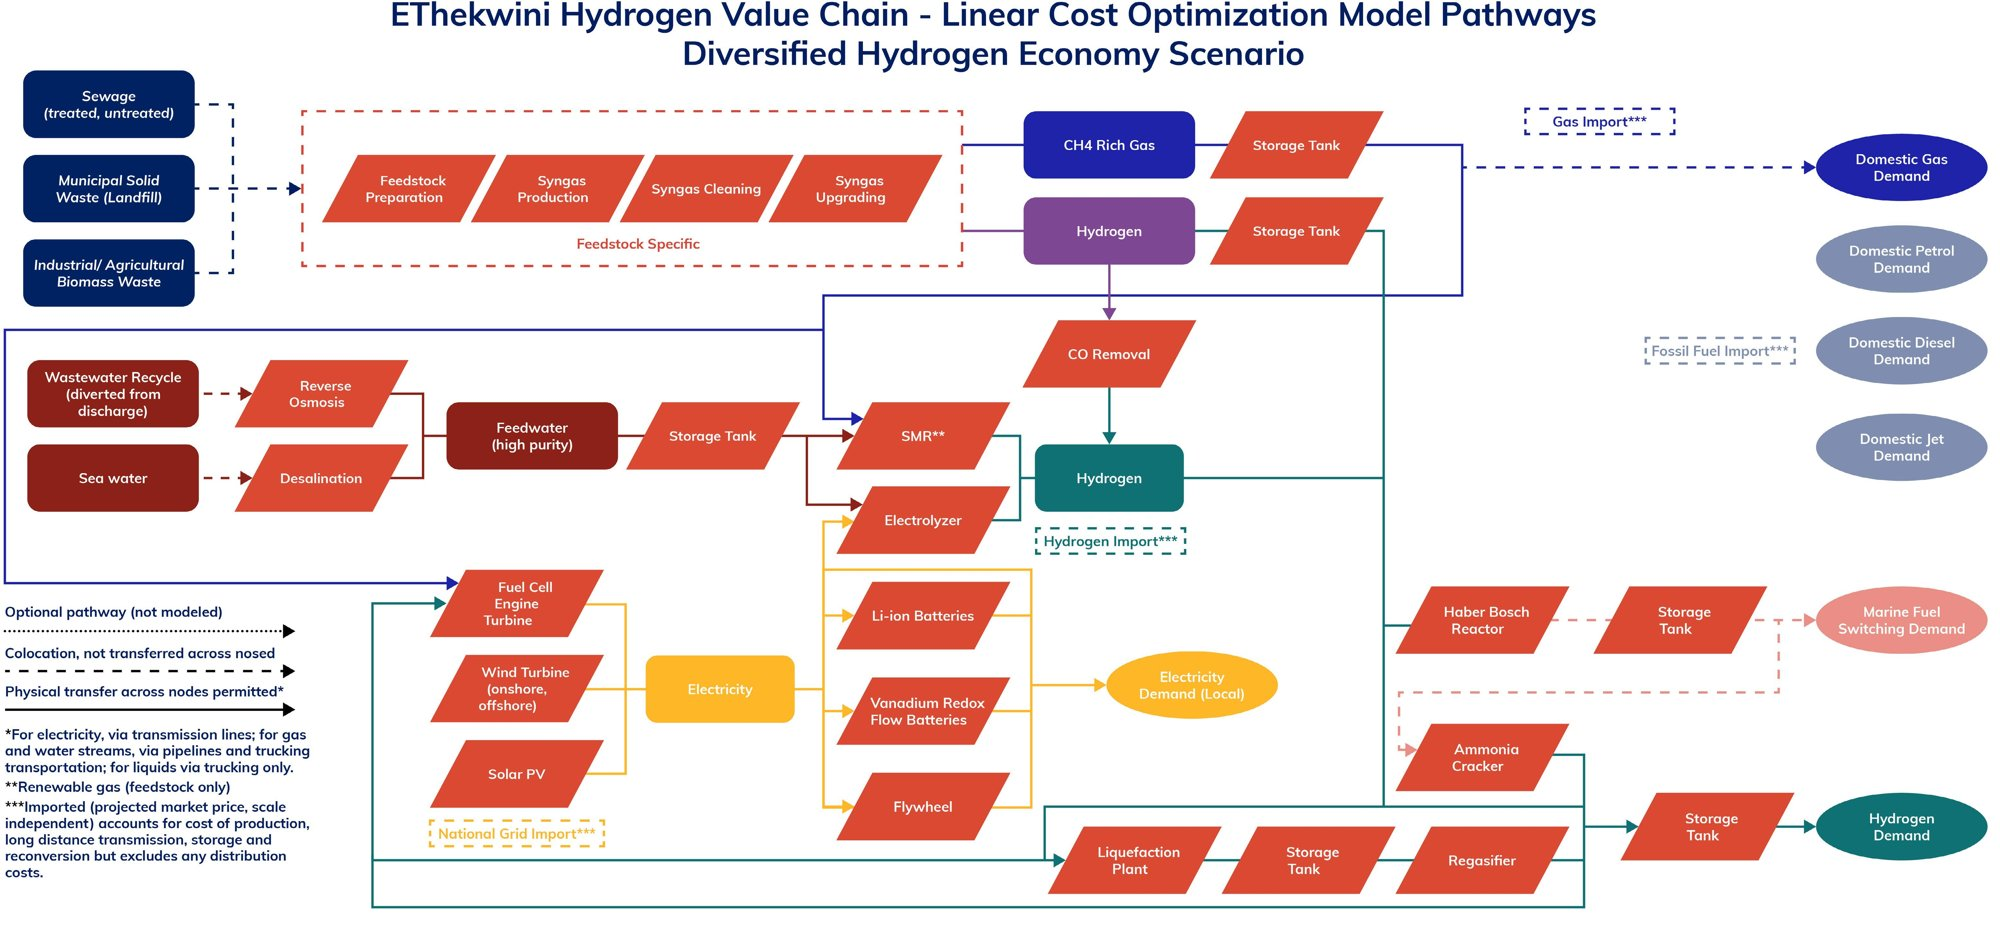
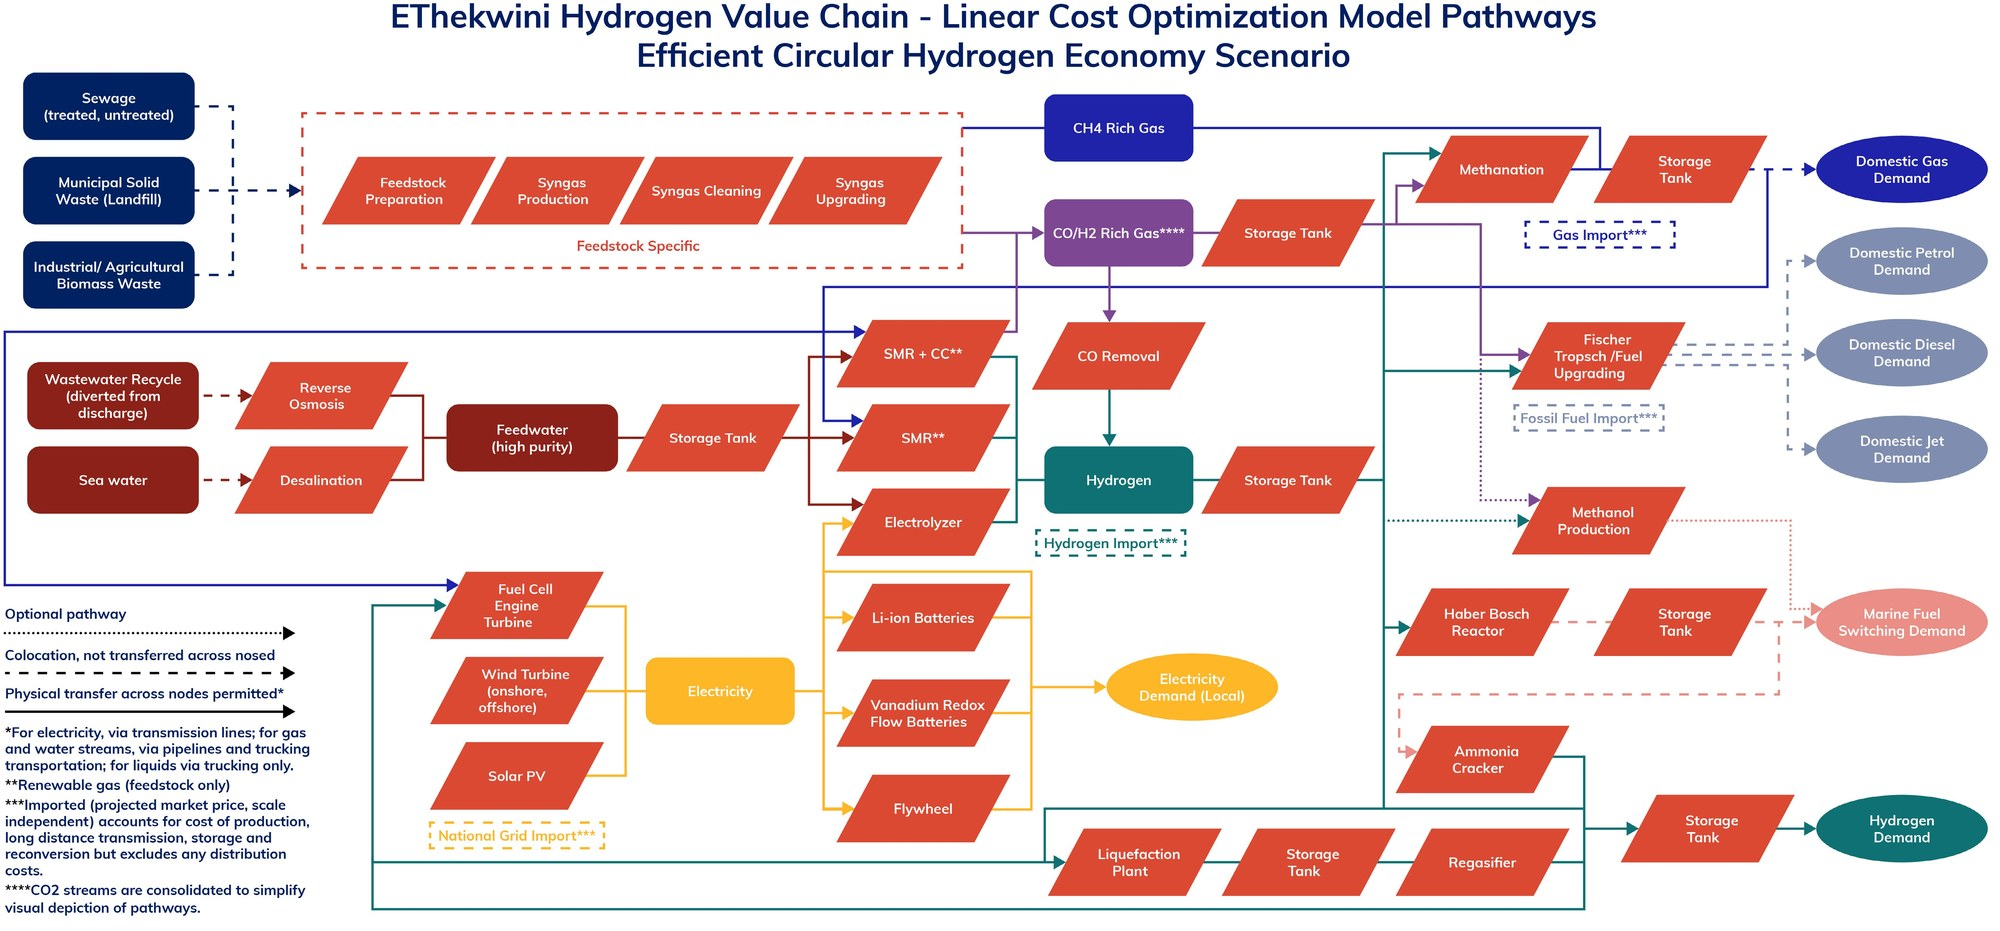
Show the efficient circular scenario in the eThekwini pathways figure

diff --git a/index.html b/index.html
@@ -59,7 +59,7 @@ I have worked on over 35 industry projects with clients including the World Bank
 <ul>
 
 <li><p><b>eThekwini Regional Hydrogen Strategy</b> (UK PACT and eThekwini Municipality, Durban, Arup, 2023). As lead analyst, I assessed how the city's water, waste and industrial infrastructure could support clean fuel production and quantified the investments and policy changes needed to deliver lower energy costs and local jobs, with a focus on disadvantaged communities. The strategy was underpinned by a techno-economic analysis and a cost based optimization model, which showed that synthetic fuels made from local waste could displace conventional imported fuels. That result is what started my path to synthetic fuels. <a href="https://www.durban.gov.za/storage/documents/eThekwini%20Regional%20Hydrogen%20Strategy.pdf">Strategy report</a>.
-<figure style="max-width:800px"><img src="images/ethekwini_cost_optimization_pathways.jpg" alt="Diagram of the supply and demand pathways in the eThekwini hydrogen value chain cost optimization model"><figcaption>Pathways in the linear cost optimization model behind the strategy, diversified hydrogen economy scenario. Sewage, landfill waste and biomass, wastewater and seawater, and local renewables all compete to meet the city's demand for gas, fuels, electricity and hydrogen at the lowest cost. From the eThekwini Regional Hydrogen Strategy, Appendix E (UK PACT and eThekwini Municipality, 2023).</figcaption></figure>
+<figure style="max-width:800px"><img src="images/ethekwini_cost_optimization_pathways.jpg?v=2" alt="Diagram of the supply and demand pathways in the eThekwini hydrogen value chain cost optimization model, efficient circular hydrogen economy scenario"><figcaption>Pathways in the linear cost optimization model behind the strategy, efficient circular hydrogen economy scenario. Sewage, landfill waste and biomass, wastewater and seawater, and local renewables all compete to meet the city's demand for gas, fuels, electricity and hydrogen at the lowest cost. In this scenario syngas from waste can also become methane, Fischer Tropsch fuels or methanol. From the eThekwini Regional Hydrogen Strategy, Appendix E (UK PACT and eThekwini Municipality, 2023).</figcaption></figure>
 </p></li>
 
 
